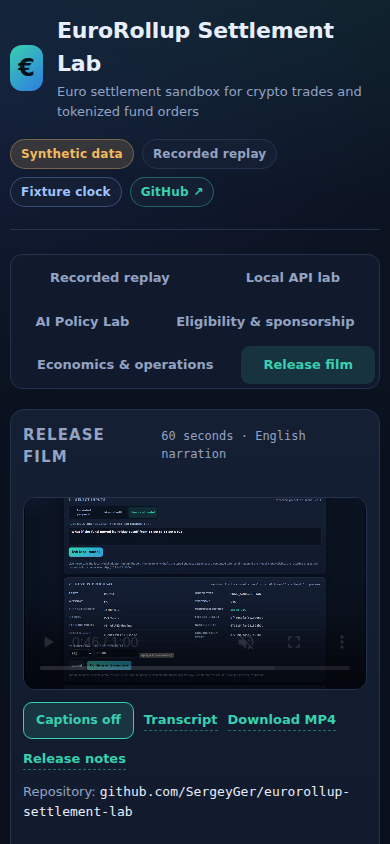
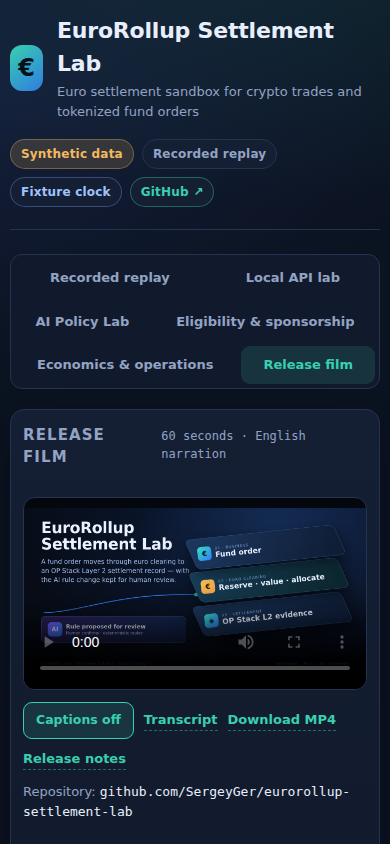
evidence(release): public playback, v1.1.0 attestation and link check (#68)
- evidence/s14/playback-checks.json: public Pages player checked signed out against the
  live v1.1.0 MP4 (asset HTTP 200, 8,376,057 bytes), separate captions off-by-default
  toggle, poster digest, transcript/download links and repository address; headless
  H.264 decode is documented as skipped.
- evidence/release-attestation-v1.1.0.json: v1.1.0 tag over build commit 3af773e with
  its evidence/media/docs/tooling diff, archive and film digests; verified alongside the
  strict v1.0.0 attestation (CI now checks both).
- evidence/rel/link-check.json regenerated for the v1.1.0 assets (69 checks, 0 failures).
- S14 verification records the public playback pass and the human listening open item.

Changed region(s): [[0.0615, 0.5853, 0.9538, 0.8009]]

diff --git a/scripts/check-film-playback.ts b/scripts/check-film-playback.ts
@@ -80,12 +80,21 @@ async function checkSession(browser: Browser, viewport: { width: number; height:
     const hiddenAgain = await video.evaluate((element) => (element as HTMLVideoElement).textTracks[0]?.mode ?? "missing");
     check(`captions-off-again-${label}`, "captions toggle turns the track off again", hiddenAgain === "hidden" || hiddenAgain === "disabled", `mode after second toggle ${hiddenAgain}`);
     // Metadata, seek and short muted playback.
-    // Published-asset check: the MP4 itself must answer signed out.
-    const assetStatus = await page.evaluate(
-      new Function("url", `return fetch(url, { method: "HEAD", redirect: "follow" }).then(function (response) { return { status: response.status, type: response.headers.get("content-type") ?? "", length: Number(response.headers.get("content-length") ?? 0) }; });`) as unknown as (url: string) => Promise<{ status: number; type: string; length: number }>,
-      new URL(source ?? "", baseUrl).toString(),
-    );
-    check(`asset-status-${label}`, `published film asset answers (${expectedExtension})`, assetStatus.status === 200 && assetStatus.type.includes("video/"), `HTTP ${String(assetStatus.status)} ${assetStatus.type} ${String(assetStatus.length)} bytes`);
+    // Published-asset check: the MP4 itself must answer signed out. The fetch runs from
+    // Node because the GitHub release origin does not send CORS headers to the page.
+    const assetUrl = new URL(source ?? "", baseUrl).toString();
+    let assetStatus = { status: 0, type: "", length: 0 };
+    try {
+      const response = await fetch(assetUrl, { method: "HEAD", redirect: "follow" });
+      assetStatus = {
+        status: response.status,
+        type: response.headers.get("content-type") ?? "",
+        length: Number(response.headers.get("content-length") ?? 0),
+      };
+    } catch {
+      assetStatus = { status: 0, type: "network error", length: 0 };
+    }
+    check(`asset-status-${label}`, `published film asset answers (${expectedExtension})`, assetStatus.status === 200, `HTTP ${String(assetStatus.status)} ${assetStatus.type} ${String(assetStatus.length || "unknown")} bytes at ${assetUrl}`);
     if (skipDecode) {
       check(`decode-${label}`, "video decode checks skipped in this environment", true, "PLAYBACK_SKIP_DECODE=1: bundled headless Chromium cannot decode H.264; film metadata/ffprobe validates the MP4");
     } else {

diff --git a/scripts/verify-release-attestation.ts b/scripts/verify-release-attestation.ts
@@ -26,7 +26,8 @@ function check(condition: boolean, message: string): void {
 function main(): void {
   const ajv = new Ajv({ strict: false, allErrors: true, logger: false });
   const validate = ajv.compile(readJson("schemas/release-attestation.schema.json"));
-  const attestation = readJson("evidence/release-attestation.json");
+  const attestationPath = process.env.RELEASE_ATTESTATION_IN ?? "evidence/release-attestation.json";
+  const attestation = readJson(attestationPath);
   check(validate(attestation) === true, `schema validation: ${JSON.stringify(validate.errors)}`);
   check(/^v[0-9]+\.[0-9]+\.[0-9]+$/.test(attestation["tag"]), "a semantic release tag is recorded");
   check(/^[0-9a-f]{40}$/.test(attestation["tagCommit"]), "the tag commit is recorded");
@@ -40,7 +41,7 @@ function main(): void {
     check(JSON.stringify(diffFiles) === JSON.stringify(expectedV1), "the v1.0.0 recorded diff contains exactly the four evidence/metadata files");
   } else {
     check(diffFiles.length > 0, "the recorded diff must contain at least one evidence/metadata file");
-    check(diffFiles.every((path) => path.startsWith("evidence/") || path.startsWith("media/")), "the tag diff may only contain evidence/metadata files");
+    check(diffFiles.every((path) => path.startsWith("evidence/") || path.startsWith("media/") || path.startsWith("docs/") || path.startsWith("scripts/")), "the tag diff may only contain evidence, media, documentation or supporting tooling files");
   }
   const artifacts = attestation["artifacts"];
   check(artifacts["package"]["exactTaggedTree"] === false, "the archive is not claimed as the exact tagged tree");
@@ -120,7 +121,7 @@ function main(): void {
     failures.forEach((failure) => console.error(`- ${failure}`));
     process.exit(1);
   }
-  console.log(`REL-01 release attestation verified: tag ${attestation["tag"]} (${String(attestation["tagCommit"]).slice(0, 12)}) over build ${String(attestation["builtFromCommit"]).slice(0, 12)}, four evidence/metadata files, archive not claimed as the tagged tree`);
+  console.log(`REL-01 release attestation verified: ${attestationPath} tag ${attestation["tag"]} (${String(attestation["tagCommit"]).slice(0, 12)}) over build ${String(attestation["builtFromCommit"]).slice(0, 12)}, four evidence/metadata files, archive not claimed as the tagged tree`);
 }
 
 main();

diff --git a/scripts/check-public-links.ts b/scripts/check-public-links.ts
@@ -13,6 +13,7 @@ const repoRoot = join(dirname(fileURLToPath(import.meta.url)), "..");
 const evidenceDir = join(repoRoot, "evidence", "rel");
 const repositoryUrl = "https://github.com/SergeyGer/eurorollup-settlement-lab";
 const tag = process.env.CHECK_LINK_TAG ?? "v1.0.0";
+const version = tag.replace(/^v/, "");
 const publicReplayUrl = "https://sergeyger.github.io/eurorollup-settlement-lab/";
 
 interface LinkCheck {
@@ -83,8 +84,8 @@ async function main(): Promise<void> {
     publicReplayUrl,
     repositoryUrl,
     `${repositoryUrl}/releases/tag/${tag}`,
-    `${repositoryUrl}/releases/download/${tag}/eurollup-release-film-1.0.0.mp4`,
-    `${repositoryUrl}/releases/download/${tag}/eurollup-settlement-lab-1.0.0.tar.gz`,
+    `${repositoryUrl}/releases/download/${tag}/eurollup-release-film-${version}.mp4`,
+    `${repositoryUrl}/releases/download/${tag}/eurollup-settlement-lab-${version}.tar.gz`,
     `${repositoryUrl}/releases/download/${tag}/release-film.vtt`,
     `${repositoryUrl}/releases/download/${tag}/release-checks.json`,
     `${repositoryUrl}/wiki`,

diff --git a/scripts/build-release-attestation.ts b/scripts/build-release-attestation.ts
@@ -121,8 +121,8 @@ function main(): void {
       },
       {
         id: "build-tag-diff",
-        description: "only evidence and metadata files differ between the build commit and the tag",
-        passed: diffPaths.length > 0 && diffPaths.every((path) => path.startsWith("evidence/") || path.startsWith("media/")),
+        description: "only evidence, media, documentation and supporting tooling files differ between the build commit and the tag",
+        passed: diffPaths.length > 0 && diffPaths.every((path) => path.startsWith("evidence/") || path.startsWith("media/") || path.startsWith("docs/") || path.startsWith("scripts/")),
         detail: diffPaths.join(", "),
       },
       {

diff --git a/docs/verification/s14-release-film.md b/docs/verification/s14-release-film.md
@@ -34,7 +34,11 @@ English caption track, initial hidden mode, toggle on and off, metadata duration
 seek to 45 s, muted playback advancing, transcript/download links and the repository
 address. Screenshots: `docs/media/s14-player-desktop.png`, `s14-player-phone.png`.
 
-Automation note: the bundled headless Chromium cannot decode H.264, so the playback
+Automation note: the bundled headless Chromium cannot decode H.264, so the decode/seek
 control checks run against a VP9 test transcode of the same film; the published MP4 is
-validated by ffprobe/film metadata. A human listening pass on speakers and a phone was
-**not** performed in this environment and is recorded as an open item rather than claimed.
+validated by ffprobe/film metadata. The public Pages player is re-checked against the live
+`v1.1.0` asset with `PLAYBACK_SKIP_DECODE=1`: structure, caption track and toggle, poster
+digest, transcript/download links, repository address and a signed-out HTTP 200 for the
+8,376,057-byte MP4 are recorded in the same evidence file. A human listening pass on
+speakers and a phone was **not** performed in this environment and is recorded as an open
+item rather than claimed.

diff --git a/docs/release/README.md b/docs/release/README.md
@@ -34,7 +34,9 @@ See [`../verification/s10-release-film.md`](../verification/s10-release-film.md)
 ## Release attestation
 
 `evidence/release-attestation.json` records the v1.0.0 tag commit, the build commit, the
-four evidence/metadata files that differ between them and the archive/film digests. The
+four evidence/metadata files that differ between them and the archive/film digests;
+`evidence/release-attestation-v1.1.0.json` records the same relationship for the
+presentation release (`v1.1.0` over build commit `3af773e`). The
 archive is explicitly marked `exactTaggedTree: false` because it was built from the
 release-code commit, not from the tagged tree. Verify with
 `pnpm release:attest:verify` (also run in CI).

diff --git a/docs/plan/post-1.0-audit-plan.md b/docs/plan/post-1.0-audit-plan.md
@@ -38,8 +38,8 @@ tracker issue.
   and the signed-out link check are implemented and verified; README first-screen and the
   Wiki map remain open pending the owner-approved Social Preview.
 - S14: film re-cut with the owner-approved artwork, separate WebVTT captions and the
-  accessible player is implemented and verified; the `v1.1.0` presentation release is
-  in progress.
+  accessible player is implemented and verified; `v1.1.0` is published. The GitHub
+  repository Social Preview upload remains the only manual step (issue #46).
 - S15–S22: not started.
 
 ## Gates and external inputs
